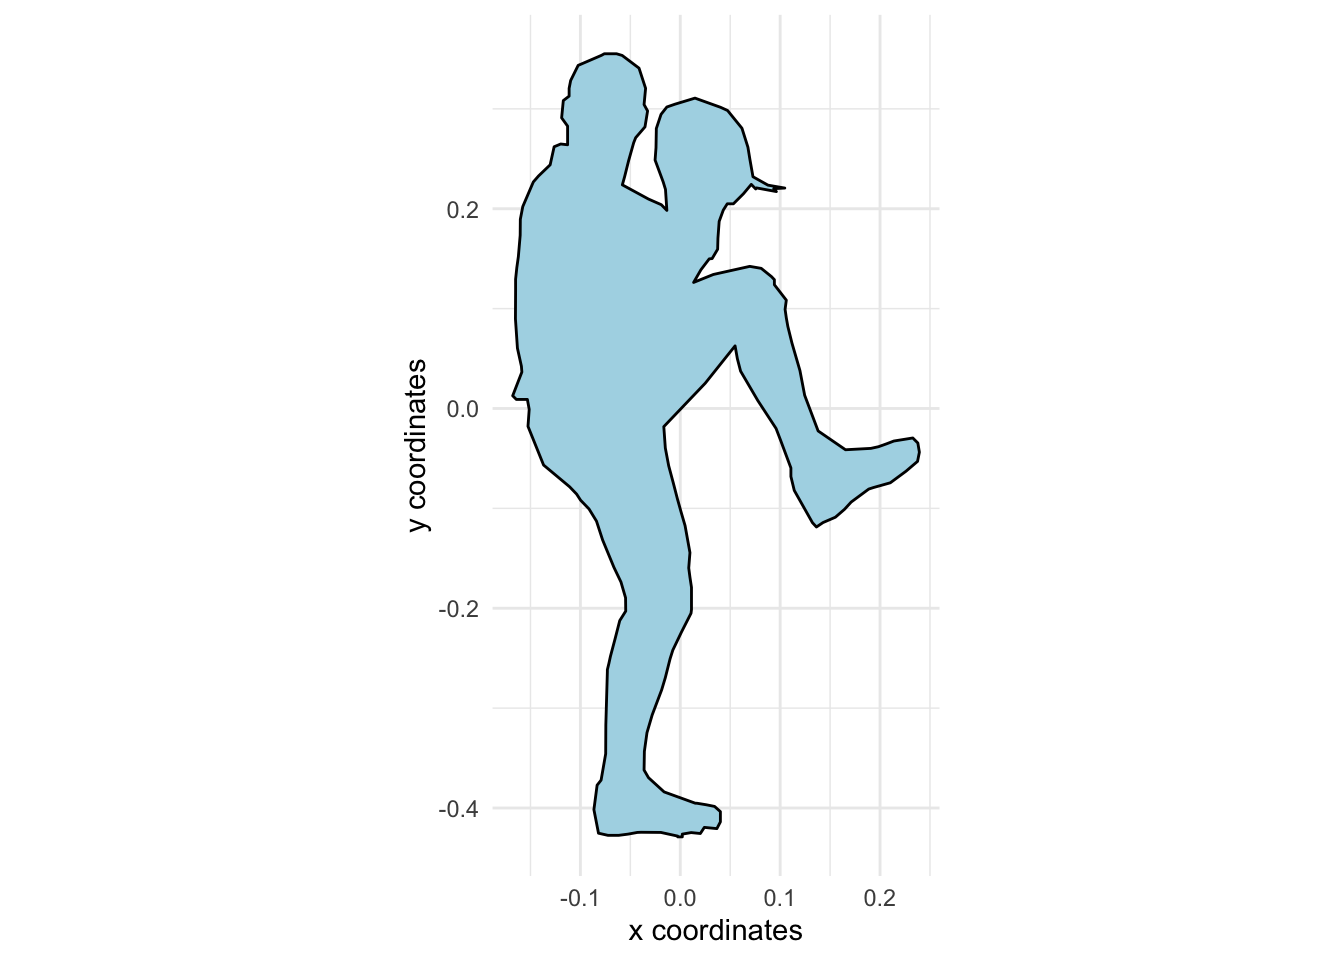
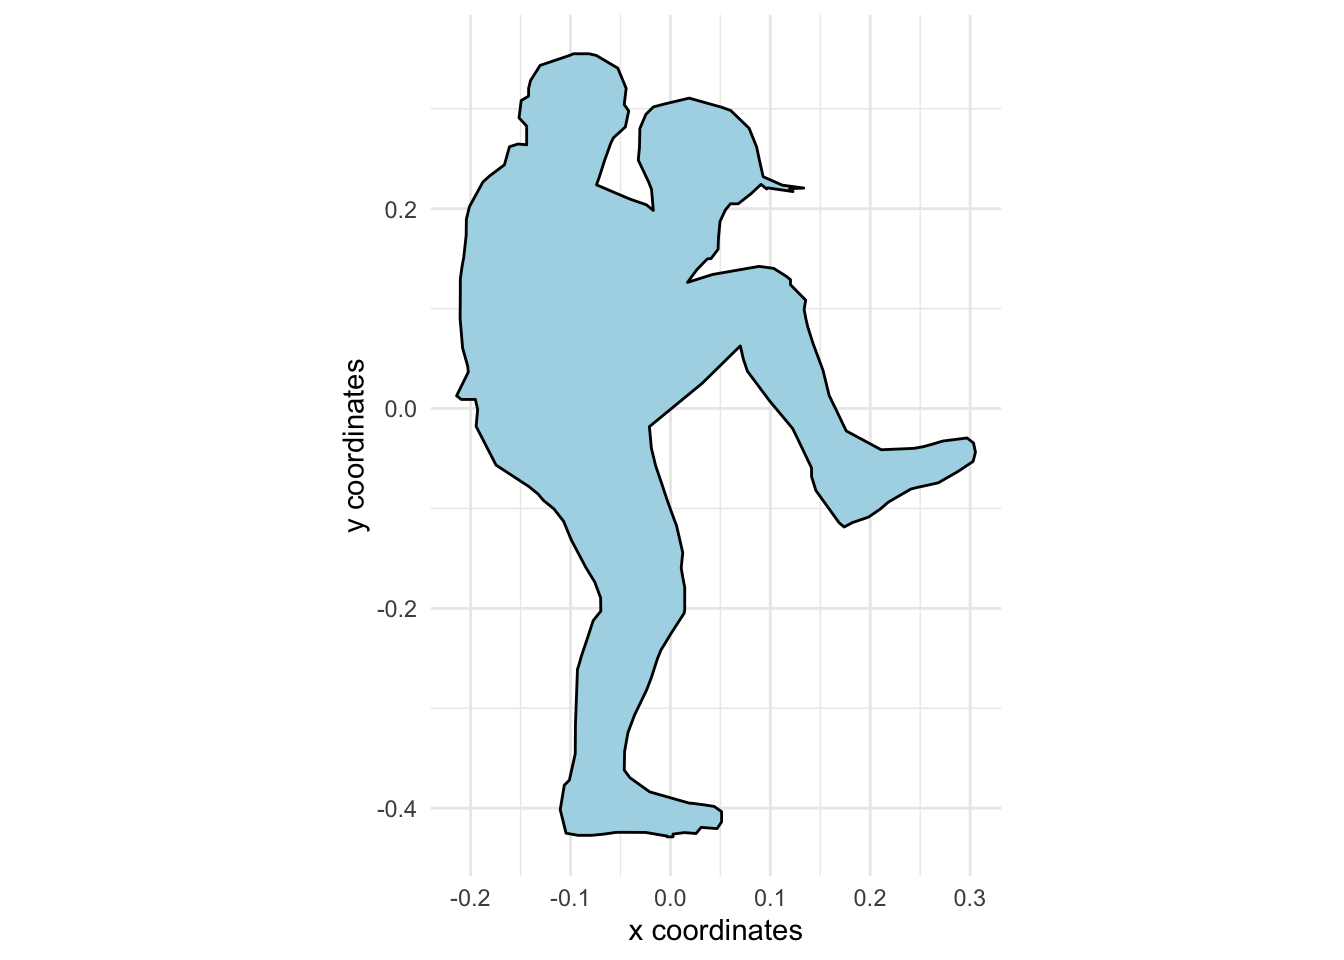
edit to post

diff --git a/post/2020-04-08-create-and-encode-custom-glyphs-from-an-svg-path/index.html b/post/2020-04-08-create-and-encode-custom-glyphs-from-an-svg-path/index.html
@@ -42,8 +42,8 @@
 <meta itemprop="name" content="Create and encode custom glyphs from an SVG path">
 <meta itemprop="description" content="In R’s grammar of graphics package (ggplot2), we can encode data in custom-made glyph shapes from vector graphics and encode its size, fill color, or both. SVG graphics display lines, colors fills using paths. Let’s make an SVG graphic containing a single path of a complex shape, assign the graphic in R to data, and change its attributes. For this exercise, I’ve created an SVG path of the silhouette of a baseball player (using Inkscape)1.">
 <meta itemprop="datePublished" content="2020-04-08T14:23:00-04:00" />
-<meta itemprop="dateModified" content="2020-04-08T14:58:29-04:00" />
-<meta itemprop="wordCount" content="773">
+<meta itemprop="dateModified" content="2020-04-08T15:49:07-04:00" />
+<meta itemprop="wordCount" content="777">
 <meta itemprop="image" content="/"/>
 
 
@@ -147,8 +147,8 @@ MathJax.Hub.Config({ tex2jax: {inlineMath: [["$","$"],["\\(","\\)"]]} })
                     ysh = path[ c(F,T) ],
                     id  = 1)</code></pre>
 <p>Of note, I give an id to this glyph, which is the same for each point within. Finally, I made the glyph coordinates, as mentioned, in Inkscape, where the origin of its coordinate system, (<code>0</code>,<code>0</code>) starts in the upper, left corner and the y-values increase going down. We will center our glyph and flip it by subtracting each coordinate by the <code>mean</code> of each coordinate. We will also scale the values so the maximum dimension is <code>1</code> unit:</p>
-<pre class="r"><code>glyph$xsh &lt;- with(glyph, (mean(xsh) - xsh) / max(xsh, ysh) )
-glyph$ysh &lt;- with(glyph, (mean(ysh) - ysh) / max(ysh, ysh) )</code></pre>
+<pre class="r"><code>glyph$xsh &lt;- with(glyph, (mean(xsh) - xsh) / dist( range(xsh, ysh) ) )
+glyph$ysh &lt;- with(glyph, (mean(ysh) - ysh) / dist( range(xsh, ysh) ) )</code></pre>
 <p>Using <code>ggplot</code>, our glyph looks like:</p>
 <pre class="r"><code>library(ggplot2)
 
@@ -201,7 +201,7 @@ d &lt;- merge(d, glyph)</code></pre>
   				<p>
   					<svg xmlns="http://www.w3.org/2000/svg" width="24" height="24" viewBox="0 0 24 24" fill="none" stroke="currentColor" stroke-width="2" stroke-linecap="round" stroke-linejoin="round" class="feather feather-tag meta-icon"><path d="M20.59 13.41l-7.17 7.17a2 2 0 0 1-2.83 0L2 12V2h10l8.59 8.59a2 2 0 0 1 0 2.82z"></path><line x1="7" y1="7" x2="7" y2="7"></line></svg><span class="tag"><a href="/tags/r">R</a></span><span class="tag"><a href="/tags/ggplot2">ggplot2</a></span><span class="tag"><a href="/tags/data-visualization">data visualization</a></span><span class="tag"><a href="/tags/glyphs">glyphs</a></span><span class="tag"><a href="/tags/svg">svg</a></span><span class="tag"><a href="/tags/grammar-of-graphics">grammar of graphics</a></span>
   				</p>
-			    <p><svg xmlns="http://www.w3.org/2000/svg" width="24" height="24" viewBox="0 0 24 24" fill="none" stroke="currentColor" stroke-width="2" stroke-linecap="round" stroke-linejoin="round" class="feather feather-git-commit"><circle cx="12" cy="12" r="4"></circle><line x1="1.05" y1="12" x2="7" y2="12"></line><line x1="17.01" y1="12" x2="22.96" y2="12"></line></svg><a href="aa72f701c128c890a7231fe3eea7e86df945889a" target="_blank" rel="noopener">aa72f70</a> @ 2020-04-08</p>
+			    <p><svg xmlns="http://www.w3.org/2000/svg" width="24" height="24" viewBox="0 0 24 24" fill="none" stroke="currentColor" stroke-width="2" stroke-linecap="round" stroke-linejoin="round" class="feather feather-git-commit"><circle cx="12" cy="12" r="4"></circle><line x1="1.05" y1="12" x2="7" y2="12"></line><line x1="17.01" y1="12" x2="22.96" y2="12"></line></svg><a href="6a4e49d7cc83bfcae0e736b1524860b6461a0d2d" target="_blank" rel="noopener">6a4e49d</a> @ 2020-04-08</p>
   		</div>
     </main>
 

diff --git a/content/post/2020-04-08-create-and-encode-custom-glyphs-from-an-svg-path.en.html b/content/post/2020-04-08-create-and-encode-custom-glyphs-from-an-svg-path.en.html
@@ -26,8 +26,8 @@ tags:
                     ysh = path[ c(F,T) ],
                     id  = 1)</code></pre>
 <p>Of note, I give an id to this glyph, which is the same for each point within. Finally, I made the glyph coordinates, as mentioned, in Inkscape, where the origin of its coordinate system, (<code>0</code>,<code>0</code>) starts in the upper, left corner and the y-values increase going down. We will center our glyph and flip it by subtracting each coordinate by the <code>mean</code> of each coordinate. We will also scale the values so the maximum dimension is <code>1</code> unit:</p>
-<pre class="r"><code>glyph$xsh &lt;- with(glyph, (mean(xsh) - xsh) / max(xsh, ysh) )
-glyph$ysh &lt;- with(glyph, (mean(ysh) - ysh) / max(ysh, ysh) )</code></pre>
+<pre class="r"><code>glyph$xsh &lt;- with(glyph, (mean(xsh) - xsh) / dist( range(xsh, ysh) ) )
+glyph$ysh &lt;- with(glyph, (mean(ysh) - ysh) / dist( range(xsh, ysh) ) )</code></pre>
 <p>Using <code>ggplot</code>, our glyph looks like:</p>
 <pre class="r"><code>library(ggplot2)
 
